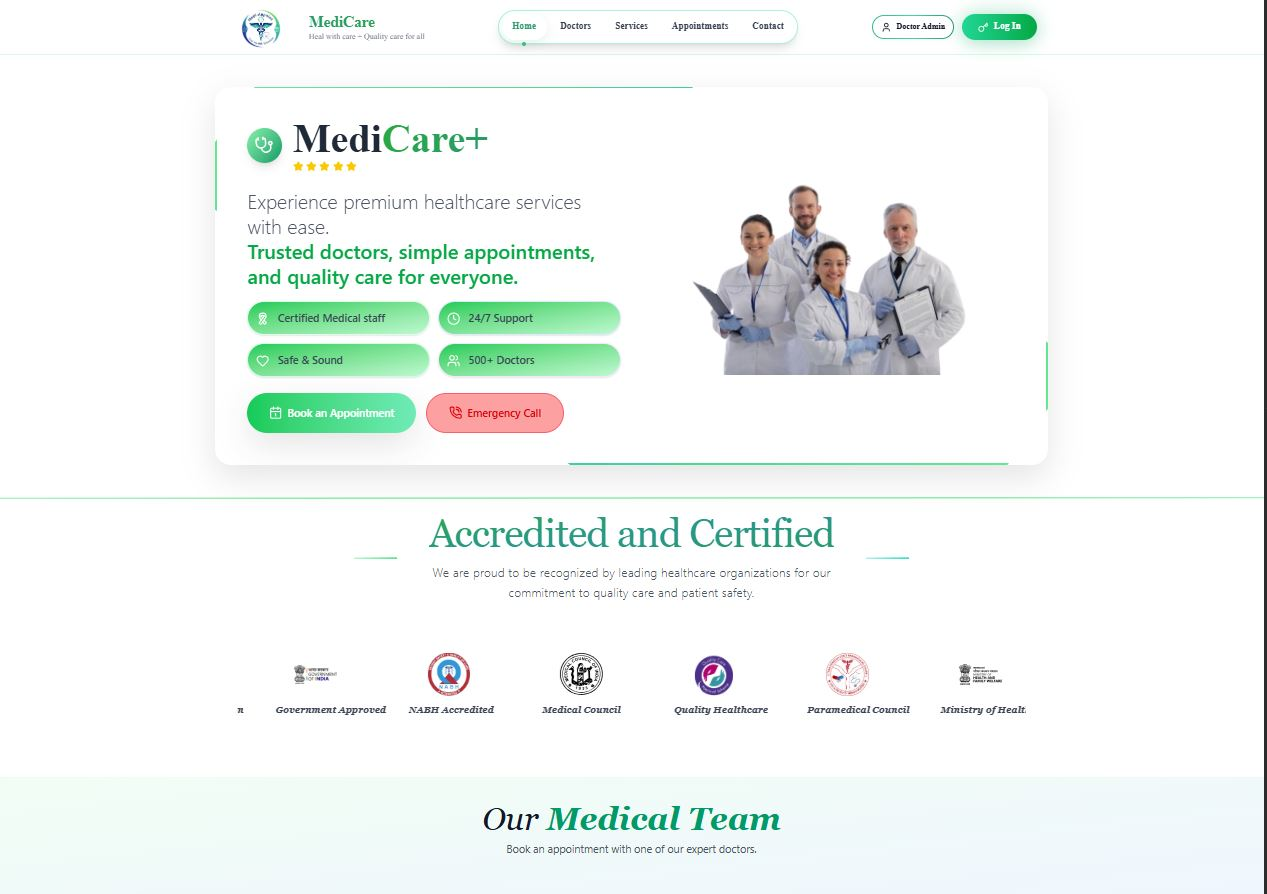
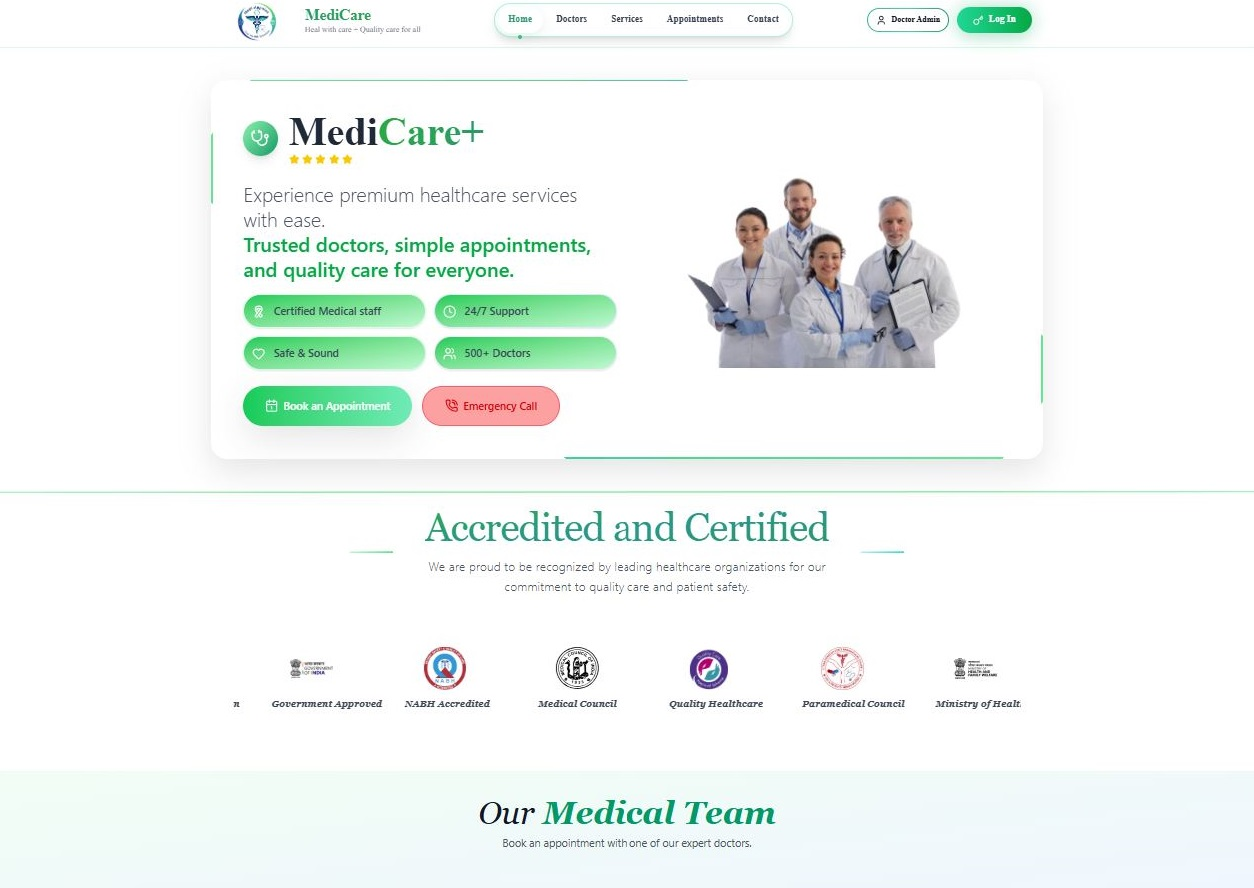
Added Videos

diff --git a/frontend/src/components/Services.tsx b/frontend/src/components/Services.tsx
@@ -9,41 +9,33 @@ const Services: React.FC = () => {
   const [startX, setStartX] = useState(0);
   const [scrollLeft, setScrollLeft] = useState(0);
 
-  const handleDragStart = (event: React.MouseEvent<HTMLDivElement>) => {
-    if (!sliderRef.current) return;
+  const handlePointerDown = (event: React.PointerEvent<HTMLDivElement>) => {
+    // Only apply JS drag for mouse; let touch devices use native scrolling
+    if (event.pointerType !== "mouse" || !sliderRef.current) return;
     setIsDragging(true);
     setStartX(event.pageX - sliderRef.current.offsetLeft);
     setScrollLeft(sliderRef.current.scrollLeft);
+    try {
+      sliderRef.current.setPointerCapture(event.pointerId);
+    } catch (e) {}
   };
 
-  const handleDragMove = (event: React.MouseEvent<HTMLDivElement>) => {
-    if (!isDragging || !sliderRef.current) return;
+  const handlePointerMove = (event: React.PointerEvent<HTMLDivElement>) => {
+    if (event.pointerType !== "mouse" || !isDragging || !sliderRef.current) return;
     event.preventDefault();
     const x = event.pageX - sliderRef.current.offsetLeft;
     const walk = (x - startX) * 1.5;
     sliderRef.current.scrollLeft = scrollLeft - walk;
   };
 
-  const handleDragEnd = () => {
+  const handlePointerUp = (event: React.PointerEvent<HTMLDivElement>) => {
+    if (event.pointerType !== "mouse") return;
     setIsDragging(false);
-  };
-
-  const handleTouchStart = (event: React.TouchEvent<HTMLDivElement>) => {
-    if (!sliderRef.current) return;
-    setIsDragging(true);
-    setStartX(event.touches[0].pageX - sliderRef.current.offsetLeft);
-    setScrollLeft(sliderRef.current.scrollLeft);
-  };
-
-  const handleTouchMove = (event: React.TouchEvent<HTMLDivElement>) => {
-    if (!isDragging || !sliderRef.current) return;
-    const x = event.touches[0].pageX - sliderRef.current.offsetLeft;
-    const walk = (x - startX) * 1.5;
-    sliderRef.current.scrollLeft = scrollLeft - walk;
-  };
-
-  const handleTouchEnd = () => {
-    setIsDragging(false);
+    if (sliderRef.current) {
+      try {
+        sliderRef.current.releasePointerCapture(event.pointerId);
+      } catch (e) {}
+    }
   };
 
   const serviceImages: Record<number, string> = {
@@ -100,13 +92,10 @@ const Services: React.FC = () => {
           <div
             ref={sliderRef}
             className={`services-slider-container ${isDragging ? "dragging" : ""}`}
-            onMouseDown={handleDragStart}
-            onMouseMove={handleDragMove}
-            onMouseUp={handleDragEnd}
-            onMouseLeave={handleDragEnd}
-            onTouchStart={handleTouchStart}
-            onTouchMove={handleTouchMove}
-            onTouchEnd={handleTouchEnd}
+            onPointerDown={handlePointerDown}
+            onPointerMove={handlePointerMove}
+            onPointerUp={handlePointerUp}
+            onPointerCancel={handlePointerUp}
           >
             {services.map((service) => {
               return (

diff --git a/frontend/src/styles/design-system.css b/frontend/src/styles/design-system.css
@@ -363,7 +363,7 @@ html.light .portfolio-card:hover {
 }
 
 html.light .portfolio-gradient {
-  background: linear-gradient(to top, #ffffff 10%, transparent 60%);
+  background: linear-gradient(to top, rgba(255, 255, 255, 0.95) 0%, rgba(255, 255, 255, 0.5) 25%, transparent 50%);
 }
 
 html.light .portfolio-title {
@@ -557,6 +557,10 @@ html.light .input-field option {
   cursor: grabbing;
   user-select: none;
   scroll-snap-type: none;
+}
+
+.services-slider-container.dragging .service-card {
+  pointer-events: none;
 }
 
 .services-slider-container::-webkit-scrollbar {

diff --git a/frontend/src/components/Portfolio.tsx b/frontend/src/components/Portfolio.tsx
@@ -31,7 +31,10 @@ const Portfolio: React.FC = () => {
                 }`}
                 onMouseEnter={(e) => {
                   const video = e.currentTarget.querySelector('video');
-                  if (video) video.play();
+                  if (video) {
+                    video.playbackRate = 1.25;
+                    video.play();
+                  }
                 }}
                 onMouseLeave={(e) => {
                   const video = e.currentTarget.querySelector('video');